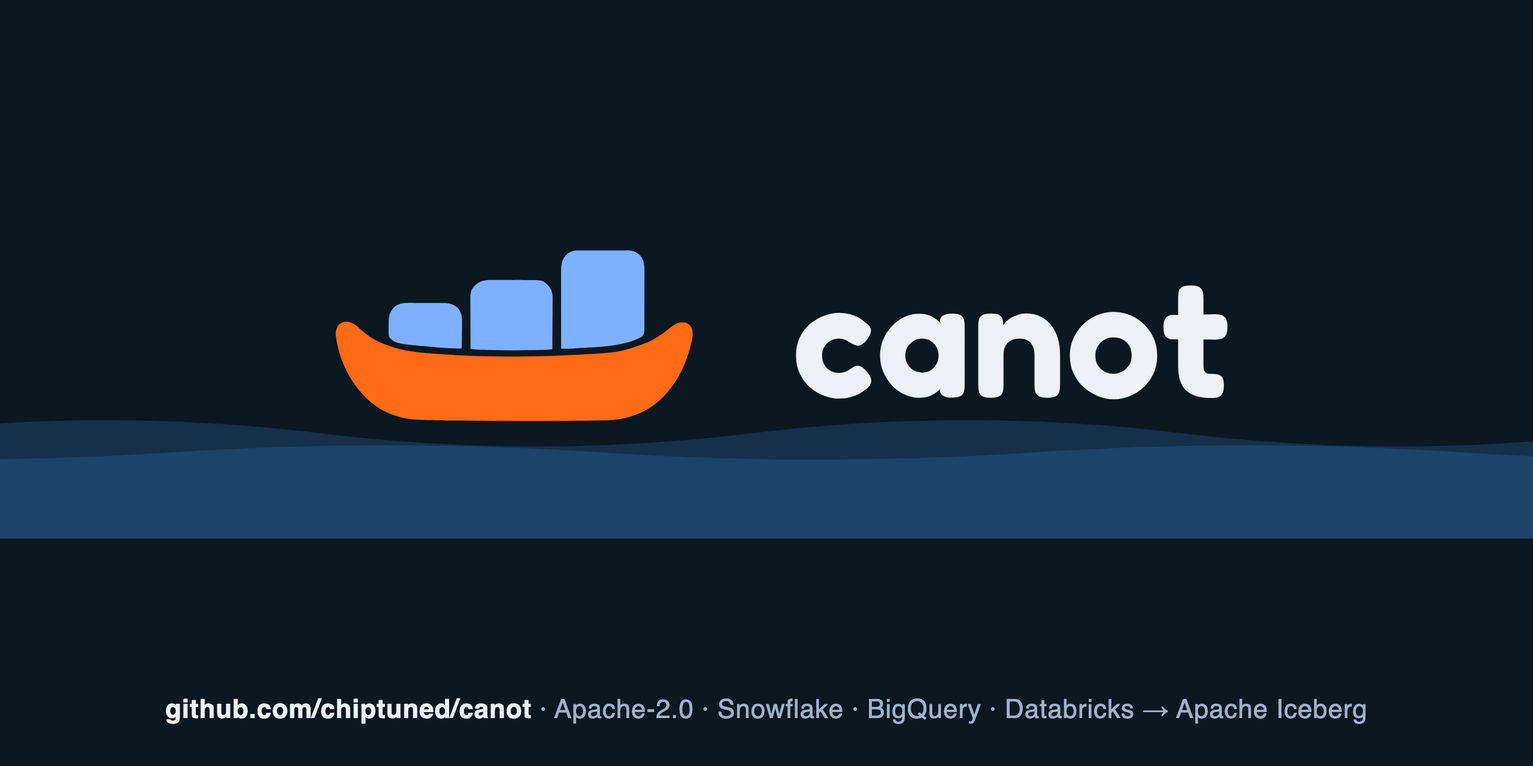
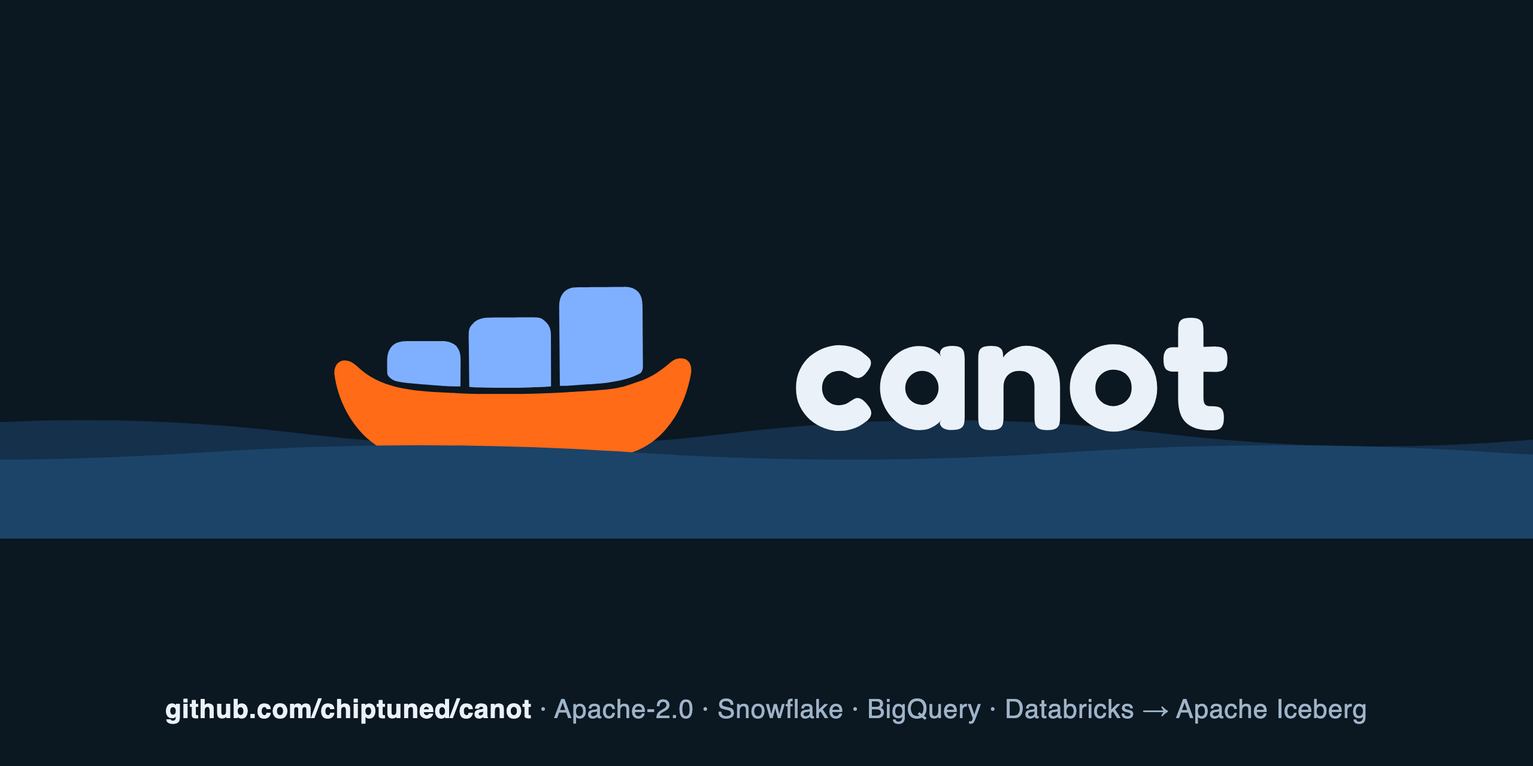
site: page Offres au style q4o (bandeau, badges Assuré par q4o, mentions de contrat); bannière GitHub : canot dans l'eau, tangage lent

Changed region(s): [[0.1875, 0.3125, 0.4688, 0.5938], [0.5, 0.375, 0.8125, 0.5938], [0.9688, 0.5625, 1.0, 0.5938]]

diff --git a/site/offres.html b/site/offres.html
@@ -26,20 +26,34 @@
 </header>
 
 <main id="main">
+<section class="s q4o-band">
+  <div class="wrap">
+    <div class="q4o-card">
+      <svg class="q4o-lines" viewBox="0 0 1200 360" preserveAspectRatio="none" aria-hidden="true" focusable="false"><polyline points="0,40.0 40,42.3 80,44.8 120,47.4 160,49.8 200,52.0 240,53.9 280,55.2 320,55.8 360,55.8 400,54.9 440,53.3 480,50.8 520,47.6 560,43.9 600,39.7 640,35.2 680,30.6 720,26.2 760,22.2 800,18.7 840,16.1 880,14.4 920,13.9 960,14.5 1000,16.4 1040,19.4 1080,23.6 1120,28.7 1160,34.6 1200,41.0" fill="none" stroke="#4cb3bf" stroke-opacity="0.100" stroke-width="1"/><polyline points="0,60.8 40,63.3 80,65.7 120,68.0 160,70.0 200,71.5 240,72.4 280,72.7 320,72.1 360,70.8 400,68.7 440,65.8 480,62.2 520,58.1 560,53.7 600,49.1 640,44.6 680,40.3 720,36.6 760,33.6 800,31.5 840,30.5 880,30.7 920,32.2 960,34.9 1000,38.7 1040,43.6 1080,49.4 1120,55.8 1160,62.5 1200,69.4" fill="none" stroke="#4cb3bf" stroke-opacity="0.112" stroke-width="1"/><polyline points="0,81.5 40,83.8 80,85.9 120,87.6 160,88.8 200,89.3 240,89.1 280,88.1 320,86.3 360,83.7 400,80.4 440,76.5 480,72.2 520,67.7 560,63.1 600,58.7 640,54.7 680,51.4 720,48.9 760,47.5 800,47.3 840,48.3 880,50.5 920,54.0 960,58.6 1000,64.2 1040,70.5 1080,77.3 1120,84.3 1160,91.1 1200,97.4" fill="none" stroke="#4cb3bf" stroke-opacity="0.124" stroke-width="1"/><polyline points="0,101.7 40,103.5 80,104.9 120,105.7 160,105.8 200,105.2 240,103.7 280,101.5 320,98.5 360,94.9 400,90.7 440,86.3 480,81.7 520,77.2 560,73.0 600,69.4 640,66.6 680,64.8 720,64.1 760,64.7 800,66.5 840,69.5 880,73.8 920,79.1 960,85.2 1000,92.0 1040,99.0 1080,106.0 1120,112.7 1160,118.7 1200,123.6" fill="none" stroke="#4cb3bf" stroke-opacity="0.136" stroke-width="1"/><polyline points="0,120.8 40,121.8 80,122.2 120,121.9 160,120.9 200,119.0 240,116.4 280,113.0 320,109.1 360,104.8 400,100.3 440,95.8 480,91.5 520,87.7 560,84.6 600,82.4 640,81.3 680,81.3 720,82.7 760,85.3 800,89.2 840,94.1 880,100.0 920,106.7 960,113.7 1000,120.8 1040,127.7 1080,134.1 1120,139.5 1160,143.7 1200,146.5" fill="none" stroke="#4cb3bf" stroke-opacity="0.148" stroke-width="1"/><polyline points="0,138.4 40,138.4 80,137.7 120,136.2 160,134.0 200,131.0 240,127.4 280,123.4 320,119.0 360,114.5 400,110.2 440,106.2 480,102.8 520,100.3 560,98.7 600,98.3 640,99.2 680,101.3 720,104.7 760,109.3 800,114.9 840,121.3 880,128.3 920,135.5 960,142.6 1000,149.2 1040,155.0 1080,159.8 1120,163.1 1160,164.9 1200,164.9" fill="none" stroke="#4cb3bf" stroke-opacity="0.160" stroke-width="1"/><polyline points="0,154.3 40,153.2 80,151.4 120,148.8 160,145.6 200,141.8 240,137.6 280,133.3 320,128.9 360,124.8 400,121.3 440,118.4 480,116.5 520,115.6 560,116.0 600,117.7 640,120.6 680,124.7 720,130.0 760,136.1 800,142.9 840,150.1 880,157.2 920,164.1 960,170.3 1000,175.5 1040,179.4 1080,181.8 1120,182.4 1160,181.2 1200,178.2" fill="none" stroke="#4cb3bf" stroke-opacity="0.172" stroke-width="1"/><polyline points="0,168.5 40,166.3 80,163.5 120,160.1 160,156.2 200,152.0 240,147.7 280,143.6 320,139.9 360,136.8 400,134.5 440,133.2 480,133.1 520,134.3 560,136.7 600,140.4 640,145.2 680,151.0 720,157.6 760,164.6 800,171.8 840,178.8 880,185.3 920,190.9 960,195.3 1000,198.3 1040,199.6 1080,199.0 1120,196.6 1160,192.3 1200,186.3" fill="none" stroke="#4cb3bf" stroke-opacity="0.184" stroke-width="1"/><polyline points="0,181.2 40,178.2 80,174.6 120,170.7 160,166.6 200,162.5 240,158.7 280,155.4 320,152.8 360,151.2 400,150.6 440,151.3 480,153.2 520,156.3 560,160.7 600,166.1 640,172.3 680,179.2 720,186.3 760,193.4 800,200.1 840,206.0 880,210.9 920,214.4 960,216.4 1000,216.5 1040,214.7 1080,211.1 1120,205.7 1160,198.6 1200,190.2" fill="none" stroke="#4cb3bf" stroke-opacity="0.196" stroke-width="1"/><polyline points="0,192.9 40,189.3 80,185.4 120,181.4 160,177.6 200,174.2 240,171.4 280,169.4 320,168.4 360,168.6 400,169.9 440,172.6 480,176.4 520,181.4 560,187.2 600,193.8 640,200.8 680,207.9 720,214.7 760,220.9 800,226.2 840,230.2 880,232.8 920,233.5 960,232.5 1000,229.5 1040,224.7 1080,218.2 1120,210.2 1160,201.0 1200,191.0" fill="none" stroke="#4cb3bf" stroke-opacity="0.208" stroke-width="1"/><polyline points="0,204.1 40,200.3 80,196.6 120,193.1 160,190.2 200,187.9 240,186.5 280,186.2 320,187.1 360,189.1 400,192.4 440,196.9 480,202.3 520,208.5 560,215.3 600,222.3 640,229.2 680,235.6 720,241.2 760,245.7 800,248.8 840,250.2 880,249.9 920,247.6 960,243.4 1000,237.5 1040,230.0 1080,221.2 1120,211.4 1160,201.2 1200,190.8" fill="none" stroke="#4cb3bf" stroke-opacity="0.220" stroke-width="1"/><polyline points="0,215.7 40,212.2 80,209.1 120,206.6 160,204.9 200,204.2 240,204.5 280,206.1 320,208.8 360,212.7 400,217.6 440,223.5 480,229.9 520,236.7 560,243.6 600,250.1 640,256.0 680,260.9 720,264.5 760,266.5 800,266.8 840,265.3 880,261.8 920,256.6 960,249.6 1000,241.3 1040,231.8 1080,221.7 1120,211.3 1160,201.1 1200,191.7" fill="none" stroke="#4cb3bf" stroke-opacity="0.232" stroke-width="1"/><polyline points="0,228.2 40,225.6 80,223.6 120,222.5 160,222.3 200,223.3 240,225.5 280,228.8 320,233.2 360,238.6 400,244.7 440,251.2 480,258.0 520,264.5 560,270.6 600,275.8 640,279.9 680,282.5 720,283.4 760,282.6 800,279.8 840,275.2 880,268.9 920,261.1 960,252.1 1000,242.2 1040,231.8 1080,221.6 1120,211.8 1160,203.1 1200,195.9" fill="none" stroke="#4cb3bf" stroke-opacity="0.244" stroke-width="1"/><polyline points="0,242.5 40,241.1 80,240.5 120,241.0 160,242.6 200,245.3 240,249.1 280,254.0 320,259.6 360,265.8 400,272.3 440,278.9 480,285.0 520,290.5 560,294.9 600,298.0 640,299.6 680,299.4 720,297.4 760,293.6 800,287.9 840,280.7 880,272.1 920,262.5 960,252.4 1000,242.1 1040,232.2 1080,223.1 1120,215.3 1160,209.2 1200,205.3" fill="none" stroke="#4cb3bf" stroke-opacity="0.256" stroke-width="1"/><polyline points="0,259.0 40,259.0 80,260.0 120,262.1 160,265.4 200,269.6 240,274.8 280,280.6 320,286.8 360,293.2 400,299.3 440,305.0 480,309.7 520,313.3 560,315.4 600,315.9 640,314.6 680,311.5 720,306.6 760,300.0 800,292.0 840,282.8 880,272.9 920,262.7 960,252.6 1000,243.3 1040,235.0 1080,228.3 1120,223.6 1160,221.2 1200,221.3" fill="none" stroke="#4cb3bf" stroke-opacity="0.268" stroke-width="1"/><polyline points="0,277.8 40,279.4 80,282.0 120,285.6 160,290.2 200,295.5 240,301.4 280,307.5 320,313.6 360,319.3 400,324.3 440,328.2 480,330.9 520,332.0 560,331.4 600,329.0 640,324.8 680,318.9 720,311.5 760,302.9 800,293.3 840,283.3 880,273.2 920,263.6 960,255.0 1000,247.8 1040,242.3 1080,239.1 1120,238.3 1160,240.1 1200,244.5" fill="none" stroke="#4cb3bf" stroke-opacity="0.280" stroke-width="1"/><polyline points="0,299.0 40,302.0 80,305.9 120,310.7 160,316.1 200,321.9 240,327.8 280,333.5 320,338.6 360,342.9 400,346.0 440,347.7 480,347.8 520,346.1 560,342.7 600,337.5 640,330.8 680,322.7 720,313.6 760,303.8 800,293.9 840,284.2 880,275.2 920,267.5 960,261.5 1000,257.4 1040,255.8 1080,256.6 1120,260.1 1160,266.1 1200,274.5" fill="none" stroke="#4cb3bf" stroke-opacity="0.292" stroke-width="1"/></svg>
+      <div class="q4o-inner">
+        <div class="q4o-top"><img class="q4o-logo" src="assets/q4o-logo.svg" alt="q4o" width="120" height="39"><span class="mono">Paris, France · modern data studio</span></div>
+        <h2><em>Canot est libre.</em><br>Les prestations sont assurées <span class="mg">par q4o.</span></h2>
+        <p>q4o est un studio data parisien. Diagnostic, test de sortie, abonnement : le contrat, la facturation, l'équipe et la responsabilité sont ceux de q4o. Des ingénieurs seniors à chaque décision.</p>
+        <div class="q4o-cta"><a class="pill pill-w" href="https://q4o.com">Découvrir q4o ↗</a><a class="pill pill-g" href="/#contact">Nous écrire</a></div>
+      </div>
+    </div>
+  </div>
+</section>
+
 <section class="s offers" id="offres">
   <div class="wrap">
     <h2>Quatre façons de commencer.</h2>
     <ul class="offer-list">
-      <li><div><span class="t">L'outil, seul</span><span class="d">Vos équipes lancent l'exercice elles-mêmes, sans nous.</span></div><span class="p">Libre</span></li>
-      <li><div><span class="t">Diagnostic de réversibilité</span><span class="d">Trois semaines. L'exercice sur un périmètre convenu, la radiographie de votre plateforme, le dossier signé, trois scénarios de coût de sortie, la liste de ce qui ne part pas tel quel, la marche à suivre et un dossier pour votre renouvellement. Restitution en atelier.</span></div><span class="p">dès 22 k€ HT</span></li>
-      <li><div><span class="t">Test de sortie DORA</span><span class="d">Pour les entités financières : un test rattaché à vos scénarios réglementaires, une fiche de test et une synthèse pour votre comité.</span></div><span class="p">dès 25 k€ HT</span></li>
-      <li><div><span class="t">Canot Vigie</span><span class="d">Refaire l'exercice chaque trimestre : dossier signé, comparaison avec le précédent, alerte quand un nouvel objet ne part pas tel quel.</span></div><span class="p">15 k€ HT par an</span></li>
+      <li><div><span class="by by-free">Libre · Apache-2.0</span><span class="t">L'outil, seul</span><span class="d">Vos équipes lancent l'exercice elles-mêmes, sans nous.</span></div><span class="p">Libre</span></li>
+      <li><div><span class="by by-q4o"><img src="assets/q4o-logo.svg" alt="" width="40" height="13">Assuré par q4o</span><span class="t">Diagnostic de réversibilité</span><span class="d">Trois semaines. L'exercice sur un périmètre convenu, la radiographie de votre plateforme, le dossier signé, trois scénarios de coût de sortie, la liste de ce qui ne part pas tel quel, la marche à suivre et un dossier pour votre renouvellement. Restitution en atelier.</span></div><span class="p">dès 22 k€ HT</span></li>
+      <li><div><span class="by by-q4o"><img src="assets/q4o-logo.svg" alt="" width="40" height="13">Assuré par q4o</span><span class="t">Test de sortie DORA</span><span class="d">Pour les entités financières : un test rattaché à vos scénarios réglementaires, une fiche de test et une synthèse pour votre comité.</span></div><span class="p">dès 25 k€ HT</span></li>
+      <li><div><span class="by by-q4o"><img src="assets/q4o-logo.svg" alt="" width="40" height="13">Assuré par q4o</span><span class="t">Canot Vigie</span><span class="d">Refaire l'exercice chaque trimestre : dossier signé, comparaison avec le précédent, alerte quand un nouvel objet ne part pas tel quel.</span></div><span class="p">15 k€ HT par an</span></li>
     </ul>
     <div class="partner">
-      <div><b>Premiers clients : devenez partenaire de conception.</b><span>Vous testez Canot tôt et vous nous donnez vos retours ; en échange, le premier exercice se fait à des conditions avantageuses, à discuter, et nous pouvons vous citer avec votre accord.</span></div>
+      <div><b>Premiers clients : devenez partenaire de conception.</b><span>Vous testez Canot tôt et vous donnez vos retours à q4o ; en échange, le premier exercice se fait à des conditions avantageuses, à discuter, et q4o peut vous citer avec votre accord.</span></div>
       <a class="btn btn-dark" href="#contact">Proposer un test</a>
     </div>
-    <p class="sources">Nous ne donnons pas d'avis juridique : l'analyse de vos contrats reste celle de votre avocat. Prix indicatifs, hors périmètres particuliers.</p>
+    <p class="sources">Contrat, facturation et responsabilité : <a href="https://q4o.com">q4o</a>, société par actions simplifiée au capital de 1 000 €, RCS Paris 105 371 835. q4o ne donne pas d'avis juridique : l'analyse de vos contrats reste celle de votre avocat. Prix indicatifs, hors périmètres particuliers.</p>
   </div>
 </section>
 <section class="s contact-strip"><div class="wrap"><p>Une question, ou un test à proposer ? <a class="btn btn-accent" href="/#contact">Nous écrire</a></p></div></section>

diff --git a/tools/sections/offers.html b/tools/sections/offers.html
@@ -1,16 +1,30 @@
+<section class="s q4o-band">
+  <div class="wrap">
+    <div class="q4o-card">
+      <svg class="q4o-lines" viewBox="0 0 1200 360" preserveAspectRatio="none" aria-hidden="true" focusable="false">@@q4olines@@</svg>
+      <div class="q4o-inner">
+        <div class="q4o-top"><img class="q4o-logo" src="assets/q4o-logo.svg" alt="q4o" width="120" height="39"><span class="mono">Paris, France · modern data studio</span></div>
+        <h2><em>Canot est libre.</em><br>Les prestations sont assurées <span class="mg">par q4o.</span></h2>
+        <p>q4o est un studio data parisien. Diagnostic, test de sortie, abonnement : le contrat, la facturation, l'équipe et la responsabilité sont ceux de q4o. Des ingénieurs seniors à chaque décision.</p>
+        <div class="q4o-cta"><a class="pill pill-w" href="https://q4o.com">Découvrir q4o ↗</a><a class="pill pill-g" href="/#contact">Nous écrire</a></div>
+      </div>
+    </div>
+  </div>
+</section>
+
 <section class="s offers" id="offres">
   <div class="wrap">
     <h2>Quatre façons de commencer.</h2>
     <ul class="offer-list">
-      <li><div><span class="t">L'outil, seul</span><span class="d">Vos équipes lancent l'exercice elles-mêmes, sans nous.</span></div><span class="p">Libre</span></li>
-      <li><div><span class="t">Diagnostic de réversibilité</span><span class="d">Trois semaines. L'exercice sur un périmètre convenu, la radiographie de votre plateforme, le dossier signé, trois scénarios de coût de sortie, la liste de ce qui ne part pas tel quel, la marche à suivre et un dossier pour votre renouvellement. Restitution en atelier.</span></div><span class="p">dès 22 k€ HT</span></li>
-      <li><div><span class="t">Test de sortie DORA</span><span class="d">Pour les entités financières : un test rattaché à vos scénarios réglementaires, une fiche de test et une synthèse pour votre comité.</span></div><span class="p">dès 25 k€ HT</span></li>
-      <li><div><span class="t">Canot Vigie</span><span class="d">Refaire l'exercice chaque trimestre : dossier signé, comparaison avec le précédent, alerte quand un nouvel objet ne part pas tel quel.</span></div><span class="p">15 k€ HT par an</span></li>
+      <li><div><span class="by by-free">Libre · Apache-2.0</span><span class="t">L'outil, seul</span><span class="d">Vos équipes lancent l'exercice elles-mêmes, sans nous.</span></div><span class="p">Libre</span></li>
+      <li><div><span class="by by-q4o"><img src="assets/q4o-logo.svg" alt="" width="40" height="13">Assuré par q4o</span><span class="t">Diagnostic de réversibilité</span><span class="d">Trois semaines. L'exercice sur un périmètre convenu, la radiographie de votre plateforme, le dossier signé, trois scénarios de coût de sortie, la liste de ce qui ne part pas tel quel, la marche à suivre et un dossier pour votre renouvellement. Restitution en atelier.</span></div><span class="p">dès 22 k€ HT</span></li>
+      <li><div><span class="by by-q4o"><img src="assets/q4o-logo.svg" alt="" width="40" height="13">Assuré par q4o</span><span class="t">Test de sortie DORA</span><span class="d">Pour les entités financières : un test rattaché à vos scénarios réglementaires, une fiche de test et une synthèse pour votre comité.</span></div><span class="p">dès 25 k€ HT</span></li>
+      <li><div><span class="by by-q4o"><img src="assets/q4o-logo.svg" alt="" width="40" height="13">Assuré par q4o</span><span class="t">Canot Vigie</span><span class="d">Refaire l'exercice chaque trimestre : dossier signé, comparaison avec le précédent, alerte quand un nouvel objet ne part pas tel quel.</span></div><span class="p">15 k€ HT par an</span></li>
     </ul>
     <div class="partner">
-      <div><b>Premiers clients : devenez partenaire de conception.</b><span>Vous testez Canot tôt et vous nous donnez vos retours ; en échange, le premier exercice se fait à des conditions avantageuses, à discuter, et nous pouvons vous citer avec votre accord.</span></div>
+      <div><b>Premiers clients : devenez partenaire de conception.</b><span>Vous testez Canot tôt et vous donnez vos retours à q4o ; en échange, le premier exercice se fait à des conditions avantageuses, à discuter, et q4o peut vous citer avec votre accord.</span></div>
       <a class="btn btn-dark" href="#contact">Proposer un test</a>
     </div>
-    <p class="sources">Nous ne donnons pas d'avis juridique : l'analyse de vos contrats reste celle de votre avocat. Prix indicatifs, hors périmètres particuliers.</p>
+    <p class="sources">Contrat, facturation et responsabilité : <a href="https://q4o.com">q4o</a>, société par actions simplifiée au capital de 1 000 €, RCS Paris 105 371 835. q4o ne donne pas d'avis juridique : l'analyse de vos contrats reste celle de votre avocat. Prix indicatifs, hors périmètres particuliers.</p>
   </div>
 </section>

diff --git a/site/style.css b/site/style.css
@@ -246,3 +246,23 @@ textarea{padding:11px 12px;border-radius:6px;border:1px solid var(--line-2);back
 .rot .w{grid-area:1/1;transform:translateY(100%);opacity:0}
 .rot .w.d0{transform:none;opacity:1;transition:transform .55s cubic-bezier(.2,.7,.2,1),opacity .45s}
 .rot .w.d2{transform:translateY(-100%);opacity:0;transition:transform .55s cubic-bezier(.2,.7,.2,1),opacity .45s}
+
+/* bandeau q4o : le style de q4o.com (noir, libellés en capitales espacées, turquoise et magenta, lignes ondulantes) dans le site de Canot */
+.q4o-band{border-bottom:0}.q4o-band .wrap{padding-block:clamp(40px,6vw,72px) 0}
+.q4o-card{position:relative;overflow:hidden;background:#0a0a0a;color:#fff;border-radius:18px}
+.q4o-lines{position:absolute;inset:0;width:100%;height:100%}
+.q4o-inner{position:relative;padding:clamp(28px,5vw,56px);display:flex;flex-direction:column;gap:22px}
+.q4o-top{display:flex;align-items:center;gap:18px;flex-wrap:wrap}
+.q4o-logo{height:30px;width:auto;filter:invert(1)}
+.mono{font:600 11.5px var(--mono);letter-spacing:.18em;text-transform:uppercase;color:#8a8a94}
+.q4o-card h2{margin:0;color:#fff;font-size:clamp(30px,4.6vw,56px);line-height:1.05;letter-spacing:-.03em;max-width:20ch;text-wrap:balance}
+.q4o-card h2 em{color:#4cb3bf;font-style:italic;font-weight:600}.q4o-card h2 .mg{color:#d07ba0}
+.q4o-card p{margin:0;color:#c9c9d1;font-size:17px;line-height:1.6;max-width:56ch}
+.q4o-cta{display:flex;gap:12px;flex-wrap:wrap}
+.pill{display:inline-block;text-decoration:none;font-weight:600;border-radius:999px;padding:13px 22px}
+.pill-w{background:#fff;color:#0a0a0a}.pill-w:hover{background:#e5e5e5;color:#0a0a0a}
+.pill-g{border:1px solid #4a4a52;color:#fff}.pill-g:hover{border-color:#fff;color:#fff}
+.by{align-self:flex-start;display:inline-flex;align-items:center;gap:8px;font:600 10.5px var(--mono);letter-spacing:.14em;text-transform:uppercase;padding:4px 10px;border-radius:999px;margin-bottom:4px}
+.by-q4o{background:#0a0a0a;color:#fff}.by-q4o img{height:11px;width:auto;filter:invert(1)}
+.by-free{background:var(--ok-wash);color:var(--ok)}
+.offers h2{margin-bottom:28px}

diff --git a/tools/build_site.py b/tools/build_site.py
@@ -14,6 +14,7 @@ booking = os.environ.get('CANOT_BOOKING_URL', '').strip()
 html = html.replace('@@booking@@', f'<a class="btn btn-line" href="{booking}">Réserver 30 minutes</a>' if booking else '')
 assert not re.search(r"@@\w+@@", html)
 (root.parent / "site" / "index.html").write_text(html)
+Q4O_LINES = '<polyline points="0,40.0 40,42.3 80,44.8 120,47.4 160,49.8 200,52.0 240,53.9 280,55.2 320,55.8 360,55.8 400,54.9 440,53.3 480,50.8 520,47.6 560,43.9 600,39.7 640,35.2 680,30.6 720,26.2 760,22.2 800,18.7 840,16.1 880,14.4 920,13.9 960,14.5 1000,16.4 1040,19.4 1080,23.6 1120,28.7 1160,34.6 1200,41.0" fill="none" stroke="#4cb3bf" stroke-opacity="0.100" stroke-width="1"/><polyline points="0,60.8 40,63.3 80,65.7 120,68.0 160,70.0 200,71.5 240,72.4 280,72.7 320,72.1 360,70.8 400,68.7 440,65.8 480,62.2 520,58.1 560,53.7 600,49.1 640,44.6 680,40.3 720,36.6 760,33.6 800,31.5 840,30.5 880,30.7 920,32.2 960,34.9 1000,38.7 1040,43.6 1080,49.4 1120,55.8 1160,62.5 1200,69.4" fill="none" stroke="#4cb3bf" stroke-opacity="0.112" stroke-width="1"/><polyline points="0,81.5 40,83.8 80,85.9 120,87.6 160,88.8 200,89.3 240,89.1 280,88.1 320,86.3 360,83.7 400,80.4 440,76.5 480,72.2 520,67.7 560,63.1 600,58.7 640,54.7 680,51.4 720,48.9 760,47.5 800,47.3 840,48.3 880,50.5 920,54.0 960,58.6 1000,64.2 1040,70.5 1080,77.3 1120,84.3 1160,91.1 1200,97.4" fill="none" stroke="#4cb3bf" stroke-opacity="0.124" stroke-width="1"/><polyline points="0,101.7 40,103.5 80,104.9 120,105.7 160,105.8 200,105.2 240,103.7 280,101.5 320,98.5 360,94.9 400,90.7 440,86.3 480,81.7 520,77.2 560,73.0 600,69.4 640,66.6 680,64.8 720,64.1 760,64.7 800,66.5 840,69.5 880,73.8 920,79.1 960,85.2 1000,92.0 1040,99.0 1080,106.0 1120,112.7 1160,118.7 1200,123.6" fill="none" stroke="#4cb3bf" stroke-opacity="0.136" stroke-width="1"/><polyline points="0,120.8 40,121.8 80,122.2 120,121.9 160,120.9 200,119.0 240,116.4 280,113.0 320,109.1 360,104.8 400,100.3 440,95.8 480,91.5 520,87.7 560,84.6 600,82.4 640,81.3 680,81.3 720,82.7 760,85.3 800,89.2 840,94.1 880,100.0 920,106.7 960,113.7 1000,120.8 1040,127.7 1080,134.1 1120,139.5 1160,143.7 1200,146.5" fill="none" stroke="#4cb3bf" stroke-opacity="0.148" stroke-width="1"/><polyline points="0,138.4 40,138.4 80,137.7 120,136.2 160,134.0 200,131.0 240,127.4 280,123.4 320,119.0 360,114.5 400,110.2 440,106.2 480,102.8 520,100.3 560,98.7 600,98.3 640,99.2 680,101.3 720,104.7 760,109.3 800,114.9 840,121.3 880,128.3 920,135.5 960,142.6 1000,149.2 1040,155.0 1080,159.8 1120,163.1 1160,164.9 1200,164.9" fill="none" stroke="#4cb3bf" stroke-opacity="0.160" stroke-width="1"/><polyline points="0,154.3 40,153.2 80,151.4 120,148.8 160,145.6 200,141.8 240,137.6 280,133.3 320,128.9 360,124.8 400,121.3 440,118.4 480,116.5 520,115.6 560,116.0 600,117.7 640,120.6 680,124.7 720,130.0 760,136.1 800,142.9 840,150.1 880,157.2 920,164.1 960,170.3 1000,175.5 1040,179.4 1080,181.8 1120,182.4 1160,181.2 1200,178.2" fill="none" stroke="#4cb3bf" stroke-opacity="0.172" stroke-width="1"/><polyline points="0,168.5 40,166.3 80,163.5 120,160.1 160,156.2 200,152.0 240,147.7 280,143.6 320,139.9 360,136.8 400,134.5 440,133.2 480,133.1 520,134.3 560,136.7 600,140.4 640,145.2 680,151.0 720,157.6 760,164.6 800,171.8 840,178.8 880,185.3 920,190.9 960,195.3 1000,198.3 1040,199.6 1080,199.0 1120,196.6 1160,192.3 1200,186.3" fill="none" stroke="#4cb3bf" stroke-opacity="0.184" stroke-width="1"/><polyline points="0,181.2 40,178.2 80,174.6 120,170.7 160,166.6 200,162.5 240,158.7 280,155.4 320,152.8 360,151.2 400,150.6 440,151.3 480,153.2 520,156.3 560,160.7 600,166.1 640,172.3 680,179.2 720,186.3 760,193.4 800,200.1 840,206.0 880,210.9 920,214.4 960,216.4 1000,216.5 1040,214.7 1080,211.1 1120,205.7 1160,198.6 1200,190.2" fill="none" stroke="#4cb3bf" stroke-opacity="0.196" stroke-width="1"/><polyline points="0,192.9 40,189.3 80,185.4 120,181.4 160,177.6 200,174.2 240,171.4 280,169.4 320,168.4 360,168.6 400,169.9 440,172.6 480,176.4 520,181.4 560,187.2 600,193.8 640,200.8 680,207.9 720,214.7 760,220.9 800,226.2 840,230.2 880,232.8 920,233.5 960,232.5 1000,229.5 1040,224.7 1080,218.2 1120,210.2 1160,201.0 1200,191.0" fill="none" stroke="#4cb3bf" stroke-opacity="0.208" stroke-width="1"/><polyline points="0,204.1 40,200.3 80,196.6 120,193.1 160,190.2 200,187.9 240,186.5 280,186.2 320,187.1 360,189.1 400,192.4 440,196.9 480,202.3 520,208.5 560,215.3 600,222.3 640,229.2 680,235.6 720,241.2 760,245.7 800,248.8 840,250.2 880,249.9 920,247.6 960,243.4 1000,237.5 1040,230.0 1080,221.2 1120,211.4 1160,201.2 1200,190.8" fill="none" stroke="#4cb3bf" stroke-opacity="0.220" stroke-width="1"/><polyline points="0,215.7 40,212.2 80,209.1 120,206.6 160,204.9 200,204.2 240,204.5 280,206.1 320,208.8 360,212.7 400,217.6 440,223.5 480,229.9 520,236.7 560,243.6 600,250.1 640,256.0 680,260.9 720,264.5 760,266.5 800,266.8 840,265.3 880,261.8 920,256.6 960,249.6 1000,241.3 1040,231.8 1080,221.7 1120,211.3 1160,201.1 1200,191.7" fill="none" stroke="#4cb3bf" stroke-opacity="0.232" stroke-width="1"/><polyline points="0,228.2 40,225.6 80,223.6 120,222.5 160,222.3 200,223.3 240,225.5 280,228.8 320,233.2 360,238.6 400,244.7 440,251.2 480,258.0 520,264.5 560,270.6 600,275.8 640,279.9 680,282.5 720,283.4 760,282.6 800,279.8 840,275.2 880,268.9 920,261.1 960,252.1 1000,242.2 1040,231.8 1080,221.6 1120,211.8 1160,203.1 1200,195.9" fill="none" stroke="#4cb3bf" stroke-opacity="0.244" stroke-width="1"/><polyline points="0,242.5 40,241.1 80,240.5 120,241.0 160,242.6 200,245.3 240,249.1 280,254.0 320,259.6 360,265.8 400,272.3 440,278.9 480,285.0 520,290.5 560,294.9 600,298.0 640,299.6 680,299.4 720,297.4 760,293.6 800,287.9 840,280.7 880,272.1 920,262.5 960,252.4 1000,242.1 1040,232.2 1080,223.1 1120,215.3 1160,209.2 1200,205.3" fill="none" stroke="#4cb3bf" stroke-opacity="0.256" stroke-width="1"/><polyline points="0,259.0 40,259.0 80,260.0 120,262.1 160,265.4 200,269.6 240,274.8 280,280.6 320,286.8 360,293.2 400,299.3 440,305.0 480,309.7 520,313.3 560,315.4 600,315.9 640,314.6 680,311.5 720,306.6 760,300.0 800,292.0 840,282.8 880,272.9 920,262.7 960,252.6 1000,243.3 1040,235.0 1080,228.3 1120,223.6 1160,221.2 1200,221.3" fill="none" stroke="#4cb3bf" stroke-opacity="0.268" stroke-width="1"/><polyline points="0,277.8 40,279.4 80,282.0 120,285.6 160,290.2 200,295.5 240,301.4 280,307.5 320,313.6 360,319.3 400,324.3 440,328.2 480,330.9 520,332.0 560,331.4 600,329.0 640,324.8 680,318.9 720,311.5 760,302.9 800,293.3 840,283.3 880,273.2 920,263.6 960,255.0 1000,247.8 1040,242.3 1080,239.1 1120,238.3 1160,240.1 1200,244.5" fill="none" stroke="#4cb3bf" stroke-opacity="0.280" stroke-width="1"/><polyline points="0,299.0 40,302.0 80,305.9 120,310.7 160,316.1 200,321.9 240,327.8 280,333.5 320,338.6 360,342.9 400,346.0 440,347.7 480,347.8 520,346.1 560,342.7 600,337.5 640,330.8 680,322.7 720,313.6 760,303.8 800,293.9 840,284.2 880,275.2 920,267.5 960,261.5 1000,257.4 1040,255.8 1080,256.6 1120,260.1 1160,266.1 1200,274.5" fill="none" stroke="#4cb3bf" stroke-opacity="0.292" stroke-width="1"/>'
 PAGES = {
     "pourquoi": ("Pourquoi", "Pourquoi vérifier la sortie de votre plateforme de données : ce que demandent DORA et le Data Act, et ce que coûte l'inconnu.", ["why"]),
     "methode": ("Méthode", "Comment Canot teste la sortie de votre plateforme de données, dans vos propres comptes, et ce qu'il vous remet.", ["method", "hosts"]),
@@ -29,6 +30,6 @@ for name, (title, desc, parts) in PAGES.items():
     hd = hd.replace('<link rel="canonical" href="https://canot.io/">', f'<link rel="canonical" href="https://canot.io/{name}.html">')
     hd = re.sub(r'<meta property="og:[^>]*>\n', "", hd)
     hd = hd.replace('<a class="skip" href="#contact">Aller au contact</a>', '<a class="skip" href="#main">Aller au contenu</a>').replace("<main>", '<main id="main">')
-    body = "\n\n".join((root / "sections" / f"{p}.html").read_text() for p in parts)
+    body = "\n\n".join((root / "sections" / f"{p}.html").read_text() for p in parts).replace("@@q4olines@@", Q4O_LINES)
     (root.parent / "site" / f"{name}.html").write_text(hd + "\n" + body + "\n" + strip + "\n" + tail)
 print("pages écrites : index," + ", ".join(PAGES))

diff --git a/tools/make_readme_assets.py b/tools/make_readme_assets.py
@@ -28,19 +28,19 @@ def banner(dark: bool) -> str:
     word = logo_part("255 722 745 205", ink).replace('<svg ', '<svg x="0" y="0" width="372" height="102" ', 1)
     return f'''<svg xmlns="http://www.w3.org/2000/svg" viewBox="0 0 1280 300" width="1280" height="300" role="img" aria-label="Canot : prouvez que vous pouvez partir">
 <style>
-@keyframes houle{{0%,100%{{transform:translateY(0) rotate(-.6deg)}}50%{{transform:translateY(-7px) rotate(.6deg)}}}}
+@keyframes houle{{0%,100%{{transform:translateY(0) rotate(-.6deg)}}50%{{transform:translateY(-4px) rotate(.4deg)}}}}
 @keyframes vague{{from{{transform:translateX(0)}}to{{transform:translateX(-1440px)}}}}
 @keyframes entre{{from{{opacity:0;transform:translateY(8px)}}to{{opacity:1;transform:none}}}}
-.boat{{transform-box:fill-box;transform-origin:50% 85%;animation:houle 9s ease-in-out infinite}}
+.boat{{transform-box:fill-box;transform-origin:50% 85%;animation:houle 17s ease-in-out infinite}}
 .w1{{animation:vague 40s linear infinite}}.w2{{animation:vague 26s linear infinite reverse}}
 .t1{{animation:entre .8s .2s both}}
 text{{font-family:-apple-system,BlinkMacSystemFont,"Segoe UI",Helvetica,Arial,sans-serif}}
 @media (prefers-reduced-motion:reduce){{.boat,.w1,.w2,.t1{{animation:none}}}}
 </style>
 <g transform="translate(0 110)"><g class="w1"><path d="{wave_path(150, 22)}" fill="{w1}"/></g></g>
-<g transform="translate(249 52)"><g class="boat">{boat}</g></g>
+<g transform="translate(249 80)"><g class="boat">{boat}</g></g>
 <g transform="translate(0 146)"><g class="w2"><path d="{wave_path(110, 12)}" fill="{w2}"/></g></g>
-<g transform="translate(659 85)"><g class="t1">{word}</g></g>
+<g transform="translate(659 88)"><g class="t1">{word}</g></g>
 </svg>
 '''
 
